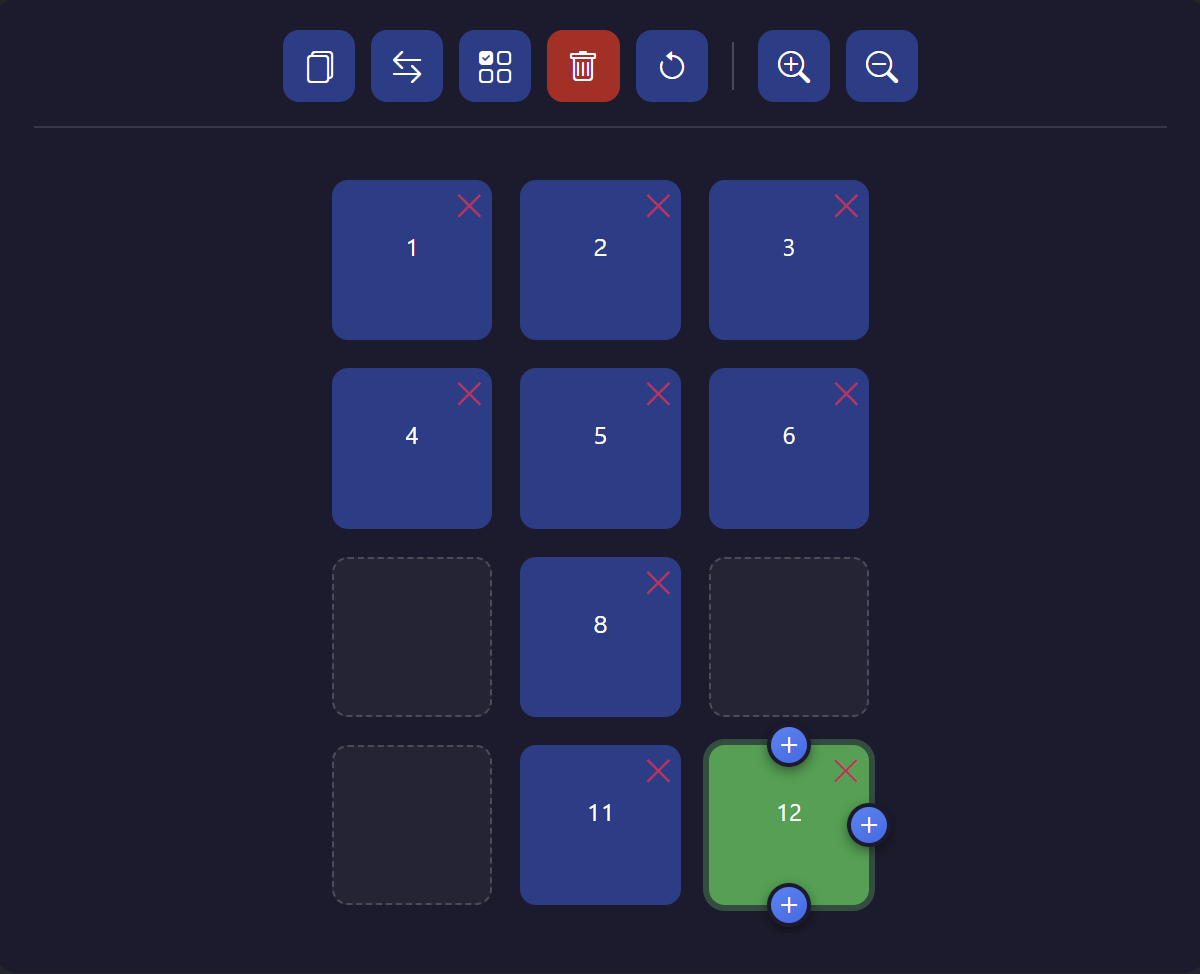
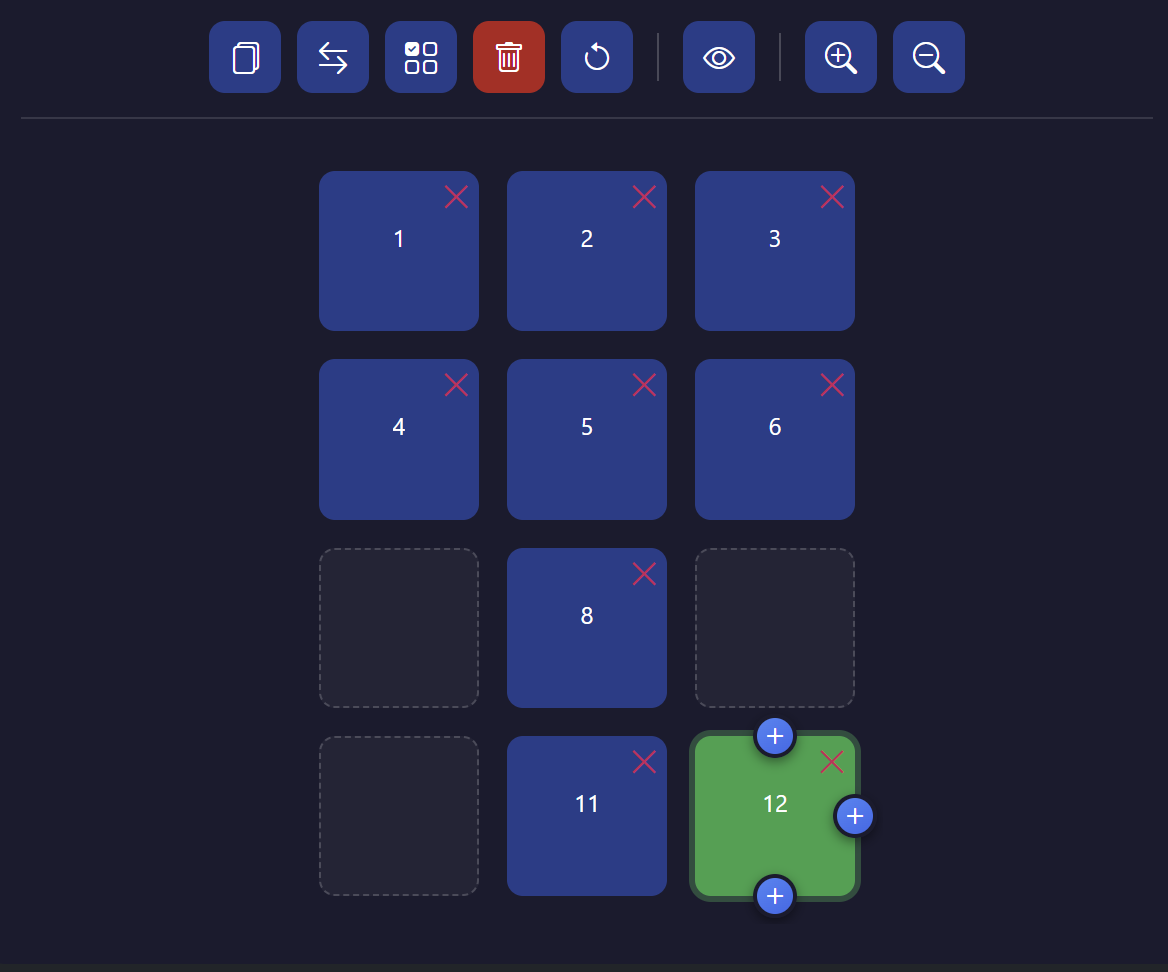
Mise à jour du guide de création d'évaluation.

diff --git a/src/app/pages/guide/guide-creation/guide-creation.component.html b/src/app/pages/guide/guide-creation/guide-creation.component.html
@@ -282,6 +282,7 @@
           <li>Sélection multiple : permet de sélectionner plusieurs cellules simultanément, pour les supprimer.</li>
           <li>Supprimer : permet de supprimer une cellule.</li>
           <li>Annuler : permet d'annuler la dernière action effectuée. Vous pouvez remonter jusqu'au 10 dernières.</li>
+          <li>Mode de visualiation : permet d'afficher rapidement le contenu de chaque cellule de la grille.</li>
           <li>Boutons de zoom et de dézoom : permet d'agrandir ou de rétrécir la zone de prévisualisation, utile pour les grilles assez larges.</li>
         </ul>
 
@@ -294,6 +295,9 @@
         <p>Une fois les écrans de l'évaluation créés, la dernière page permet de télécharger l'évaluation dans un format <code>.zip</code>. Elle peut ensuite être
           importée dans l'application GazePlay-Learning pour pouvoir lancer votre évaluation et récupérer ses résultats.
         </p>
+
+        <p>Vous pouvez également télécharger l'évaluation dans un format <code>.gpSave</code>. Ce type de fichier peut être importé sur GazePlay-Eval pour pouvoir
+        recharger l'évaluation à partir du fichier.</p>
 
       </div>
     </div>
